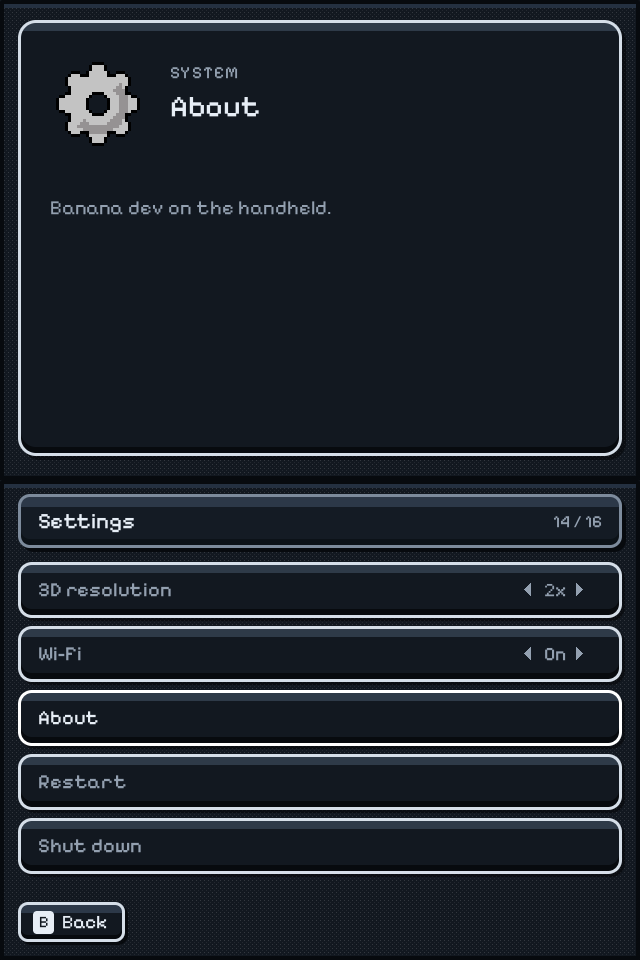
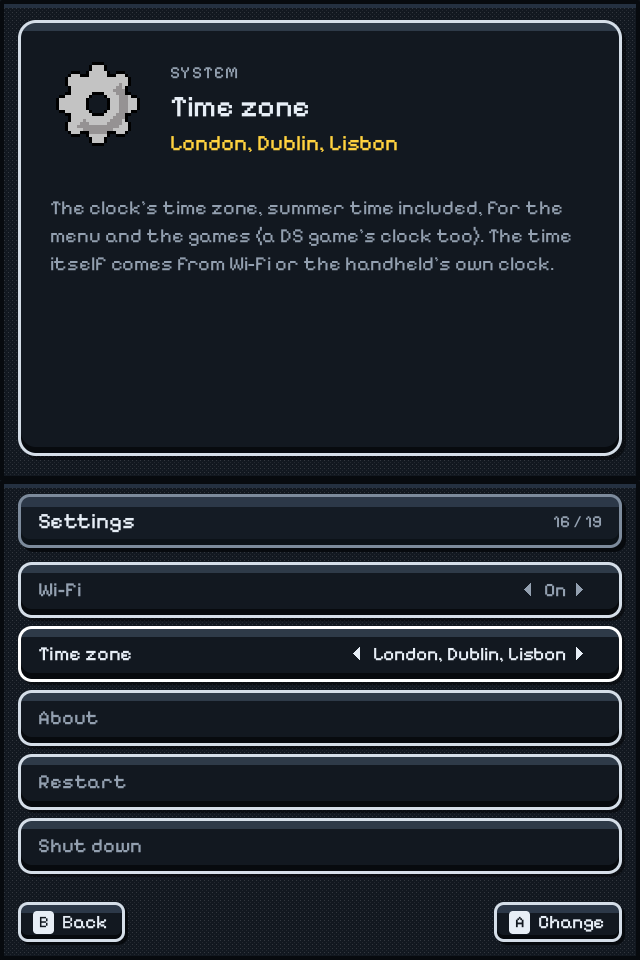
Settings: the time zone
The menu's clock was in UTC. Settings > System > Time zone picks one of 30 regions, stored in settings.conf as a
POSIX TZ rule (offset and summer time; glibc reads these with no zoneinfo files on the read-only root). banana-ui
sets TZ at start and on a change, for its clock and every game it starts (a DS game's clock is local too);
bananad takes it from settings.conf at start and on SIGHUP, for sleep.log's times. Any other rule written by hand
in settings.conf works as well.

Each rule checked against the tz database (zoneinfo) every 6 hours through 2026 and 2027: all 30 agree.
make test: the System section reached with R, the time zone changed and saved.

Claude-Session: https://claude.ai/code/session_018qUWsBXHrSiCKfAW17r6vD

diff --git a/ui/src/settings.cpp b/ui/src/settings.cpp
@@ -149,6 +149,41 @@ namespace banana
 		if (l != light) { light = l; cache.clear(); }
 	}
 
+	// time zones as POSIX TZ rules (glibc reads them from TZ with no zoneinfo files): the offset and the summer time
+	// rules as they stand, one entry per rule with the places that follow it
+	static const struct { const char* name; const char* tz; } ZONES[] = {
+		{ "UTC", "UTC0" },
+		{ "London, Dublin, Lisbon", "GMT0BST,M3.5.0/1,M10.5.0" },
+		{ "Lagos, Algiers", "WAT-1" },
+		{ "Amsterdam, Berlin, Paris, Rome", "CET-1CEST,M3.5.0,M10.5.0/3" },
+		{ "Johannesburg", "SAST-2" },
+		{ "Athens, Helsinki, Kyiv", "EET-2EEST,M3.5.0/3,M10.5.0/4" },
+		{ "Cairo", "EET-2EEST,M4.5.5/0,M10.5.4/24" },
+		{ "Istanbul, Riyadh, Nairobi", "<+03>-3" },
+		{ "Moscow", "MSK-3" },
+		{ "Dubai", "<+04>-4" },
+		{ "Karachi", "PKT-5" },
+		{ "India", "IST-5:30" },
+		{ "Bangkok, Jakarta", "<+07>-7" },
+		{ "Beijing, Singapore, Perth", "CST-8" },
+		{ "Tokyo, Seoul", "JST-9" },
+		{ "Adelaide", "ACST-9:30ACDT,M10.1.0,M4.1.0/3" },
+		{ "Brisbane", "AEST-10" },
+		{ "Sydney, Melbourne", "AEST-10AEDT,M10.1.0,M4.1.0/3" },
+		{ "Auckland", "NZST-12NZDT,M9.5.0,M4.1.0/3" },
+		{ "Honolulu", "HST10" },
+		{ "Anchorage", "AKST9AKDT,M3.2.0,M11.1.0" },
+		{ "Los Angeles, Vancouver", "PST8PDT,M3.2.0,M11.1.0" },
+		{ "Phoenix", "MST7" },
+		{ "Denver, Calgary", "MST7MDT,M3.2.0,M11.1.0" },
+		{ "Mexico City", "CST6" },
+		{ "Chicago, Winnipeg", "CST6CDT,M3.2.0,M11.1.0" },
+		{ "New York, Toronto", "EST5EDT,M3.2.0,M11.1.0" },
+		{ "Halifax", "AST4ADT,M3.2.0,M11.1.0" },
+		{ "Santiago", "<-04>4<-03>,M9.1.6/24,M4.1.6/24" },
+		{ "Sao Paulo, Buenos Aires", "<-03>3" },
+	};
+
 	void Settings::build()
 	{
 		std::string menu = data + "/settings.conf", power = data + "/bananad.conf", sd = data + "/superdrastic.conf";
@@ -188,6 +223,12 @@ namespace banana
 		const char* W = "Network";
 		add(W, "phone", "Wi-Fi", "", menu, "wifi", { "On", "Off" }, { "on", "off" });
 		const char* S = "System";
+		{
+			std::vector<std::string> names, tzs;
+			for (auto& z : ZONES) { names.push_back(z.name); tzs.push_back(z.tz); }
+			add(S, "gear", "Time zone", "The clock's time zone, summer time included, for the menu and the games (a DS game's clock too). The time itself comes from Wi-Fi or the handheld's own clock.",
+				menu, "timezone", names, tzs);
+		}
 		add(S, "gear", "About", "", "", "", {}, {}, Item::INFO);
 		add(S, "gear", "Restart", "Restarts the handheld. Press A twice.", "", "reboot", { "" }, { "" }, Item::ACTION);
 		add(S, "gear", "Shut down", "Turns the handheld off. Press A twice. (Or hold the power button.)", "", "poweroff", { "" }, { "" }, Item::ACTION);
@@ -323,6 +364,7 @@ namespace banana
 		}
 		else setConfValue(it.file, it.key, v);
 		if (it.file == data + "/bananad.conf") poke("bananad");
+		if (it.key == "timezone") { setenv("TZ", v.c_str(), 1); tzset(); poke("bananad"); }	// bananad's logs too
 		if (it.key == "wifi") spawn("/usr/libexec/banana/wifi", v == "on" ? "up" : "down");
 	}
 

diff --git a/system/bananad/bananad.c b/system/bananad/bananad.c
@@ -126,6 +126,23 @@ static void load_conf(const char *path)
 	fclose(f);
 }
 
+/* the time zone the settings screen keeps in banana-ui's settings.conf (a POSIX rule), for sleep.log's times */
+static void load_timezone(void)
+{
+	FILE *f = fopen("/data/banana/settings.conf", "r");
+	if (!f) return;
+	char ln[256];
+	while (fgets(ln, sizeof ln, f)) {
+		char *eq = strchr(ln, '=');
+		if (ln[0] == '#' || !eq) continue;
+		*eq = 0;
+		char *k = ln, *v = eq + 1;
+		trim(k); trim(v);
+		if (!strcmp(k, "timezone") && *v) { setenv("TZ", v, 1); tzset(); }
+	}
+	fclose(f);
+}
+
 static int write_file(const char *path, const char *s)
 {
 	int fd = open(path, O_WRONLY | O_TRUNC | O_CLOEXEC);	/* as a shell's > does (sysfs takes it) */
@@ -765,6 +782,7 @@ int main(int argc, char **argv)
 	test_lid = getenv("BANANAD_TEST_LID");
 	load_conf("/etc/banana/bananad.conf");
 	load_conf("/data/banana/bananad.conf");
+	load_timezone();
 	signal(SIGCHLD, SIG_DFL);
 	struct sigaction sa = { 0 };
 	sa.sa_handler = on_hup;		/* no SA_RESTART: poll() returns, and the loop reloads */
@@ -798,6 +816,7 @@ int main(int argc, char **argv)
 			reload = 0;
 			load_conf("/etc/banana/bananad.conf");
 			load_conf("/data/banana/bananad.conf");
+			load_timezone();
 			leds_last = -2;
 			leds_update();
 			say("settings read again: lid %s, auto-sleep %d min, LEDs %d", cfg.lid_sleep ? "sleeps" : "ignored", cfg.autosleep_min, cfg.led_brightness);

diff --git a/ui/src/main.cpp b/ui/src/main.cpp
@@ -526,6 +526,8 @@ int main(int argc, char** argv)
 
 	rnds::setDecoder(stbDecode);
 	auto settings = readSettings(o.data + "/settings.conf");
+	// the time zone, for the clock and every game started from here (a POSIX rule, see settings.cpp)
+	if (!settings["timezone"].empty()) { setenv("TZ", settings["timezone"].c_str(), 1); tzset(); }
 	std::string variant = settings["theme"] == "light" ? "light" : "dark";
 	Host lib(o.systems, o.roms, o.data, o.assets);
 	lib.motion = settings["motion"] != "off";

diff --git a/README.md b/README.md
@@ -19,7 +19,7 @@ saves, settings) goes on an exFAT partition any computer can open.
 | | |
 |---|---|
 | **The menu** | ROCKNIXDS Pixel, the same engine (imported unchanged from ROCKNIXDS) drawn in software straight onto both panels by `banana-ui`: the system shelf, DS cartridges with their label art, box covers, play stats, the cartridge sliding into the console. Dark and light. Banana's mark is the BananaUI bunch redrawn as pixel art in the theme's icon style. |
-| **Settings** | Start in the menu: theme, brightness, motion, sounds, clock, the boot animation, sleep when idle, the lid, the LEDs, the DS renderer, shader and 3D resolution, Wi-Fi, About, restart and shut down. In the same look, applied at once. |
+| **Settings** | Start in the menu: theme, brightness, motion, sounds, clock, the boot animation, sleep when idle, the lid, the LEDs, the DS renderer, shader and 3D resolution, Wi-Fi, the time zone, About, restart and shut down. In the same look, applied at once. |
 | **Boot animation** | From banana-ui's first frame, while the library loads on another thread: the bunch drops onto the top panel and BANANA types itself in; on the bottom panel the BANANA cartridge goes into the console with the menu's own insert motion, clicks, and the power light turns green. Then it dissolves into the menu. |
 | **Light** | The menu draws a frame in well under a millisecond when only one screen changes, skips any screen whose content didn't change, and sleeps in `poll()` between frames. While a game runs it closes the display, the input devices and the sound device: the game has the handheld to itself. |
 | **Sleep** | Close the lid and it is asleep in a moment: the game paused where it was, the card flushed, the handheld suspended to RAM. Open it and the game carries on as the panels light up: the game and the menu are resumed first, Wi-Fi and the rest catch up behind them, and the devices resume in parallel. Woken with the lid shut (the power button in a bag) it goes straight back to sleep. While asleep it checks the battery every 4 hours and shuts down cleanly (the game saves first) before it could run flat. Ten idle minutes in the menu also sleep; hold power to shut down. The menu warns at 20%, 10% and 5%. (`bananad`, tested in `system/bananad/tests/sleep-test.sh`) |
@@ -34,7 +34,7 @@ saves, settings) goes on an exFAT partition any computer can open.
 </p>
 <p align="center">
   <img src="docs/img/menu-settings.png" width="248" alt="The settings screen: the selected setting's icon, name, value and description on the top screen; the list of settings as slots with left and right arrows on the bottom">
-  <img src="docs/img/menu-settings-system.png" width="248" alt="The settings screen on the System section: About, Restart, Shut down">
+  <img src="docs/img/menu-settings-system.png" width="248" alt="The settings screen on the System section: the time zone set to London, Dublin, Lisbon, then About, Restart, Shut down">
   <img src="docs/img/menu-battery.png" width="248" alt="The low-battery notice over the top screen: the battery icon nearly empty in red, Battery nearly empty: 4%, save your game now">
 </p>
 <p align="center"><sub>banana-ui's own frames (headless renders, <code>make test</code>), with a test library of made-up games.

diff --git a/docs/ARCHITECTURE.md b/docs/ARCHITECTURE.md
@@ -57,7 +57,9 @@ ROCKNIXDS, ES is the Source and its GL renderer the Backend. In Banana:
 **Settings** (`src/settings.cpp`, Start): drawn with the engine's own box styles and Pixelify Sans through the
 same Backend. Each change is written at once to the file that owns it: `banana/settings.conf` (the menu; a theme
 change rebuilds the engine in the other palette), `banana/bananad.conf` (then SIGHUP to bananad), 
-`banana/superdrastic.conf` (read by run-drastic), DraStic's `drastic.cfg`, and the backlights.
+`banana/superdrastic.conf` (read by run-drastic), DraStic's `drastic.cfg`, and the backlights. The time zone is a POSIX `TZ` rule in `settings.conf` (glibc reads those with no
+zoneinfo files on the root): banana-ui sets `TZ` for itself and every game it starts, so a DS game's clock is local
+too, and bananad takes it for its logs on SIGHUP.
 
 **Low battery**: at 20% (the LED turns red), 10% and 5% (it blinks) on the battery, a notice in the bubble style
 over the bottom of the top panel for 8 s, the status bar's battery three times its size; any button hides it.

diff --git a/docs/ROADMAP.md b/docs/ROADMAP.md
@@ -20,7 +20,8 @@
 
 - [x] A settings screen in the menu (Start): theme, brightness, motion, sounds, clock, boot animation, sleep, lid,
       LEDs, DS renderer / shader / 3D resolution, Wi-Fi on/off, About, restart, shut down
-- [ ] Settings still to come: choosing a Wi-Fi network (an on-screen keyboard), the time zone, volume
+- [x] The time zone (POSIX rules for 30 regions, summer time included; the menu, the games and bananad's logs)
+- [ ] Settings still to come: choosing a Wi-Fi network (an on-screen keyboard), volume
 - [x] RetroArch and the libretro cores for the other systems (Buildroot packages), on one panel (settings: top or bottom)
 - [x] The Favorites shelf and the favourite systems' order updated as soon as the shelf shows again
 - [x] Input hotplug in banana-ui (USB and Bluetooth pads, watched with inotify)
